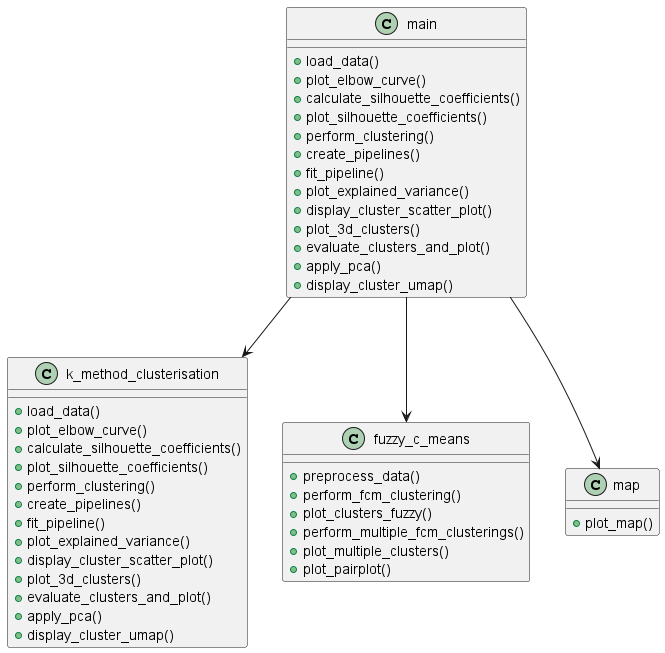
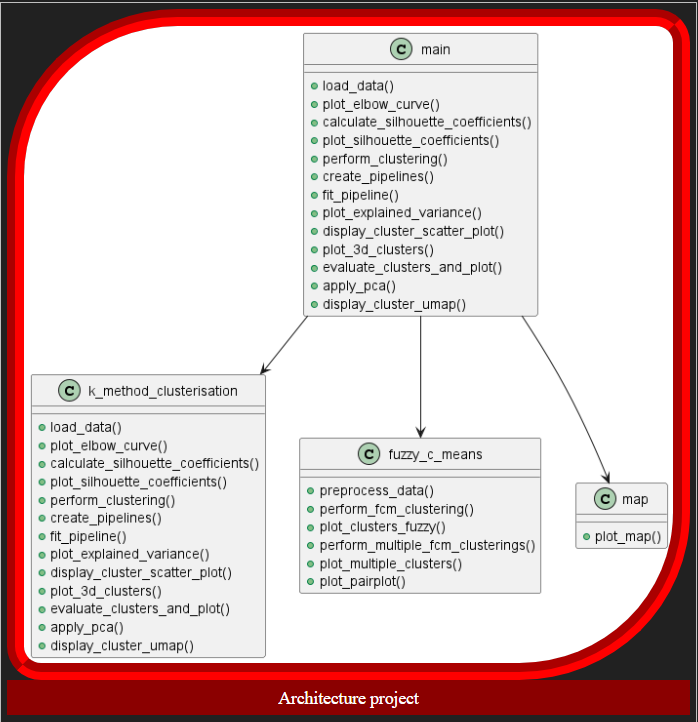
add commit "Updated materials"

diff --git a/README.md b/README.md
@@ -21,33 +21,6 @@ This project aims to perform clustering of village data using various clustering
 
 ## Architecture
 
-<style>
-figure {
-  border: thin #c0c0c0 solid;
-  display: flex;
-  flex-flow: column;
-  padding: 5px;
-  max-width: 800px;
-  margin: auto;
-}
-
-img {
-  max-width: 800px;
-  max-height: 600px;
-  border: groove 1em red;
-  border-radius: 25% 5%;
-}
-
-figcaption {
-  background-color: darkred;
-  color: white;
-  font-family: Times, "Times New Roman", Georgia, serif;
-  font-size: 14px;
-  padding: 3px;
-  text-align: center;
-}
-</style>
-
 <figure>
   <img src="/src/templates/img/UML_diagram.png" alt="Architecture project" />
   <figcaption>Architecture project</figcaption>
